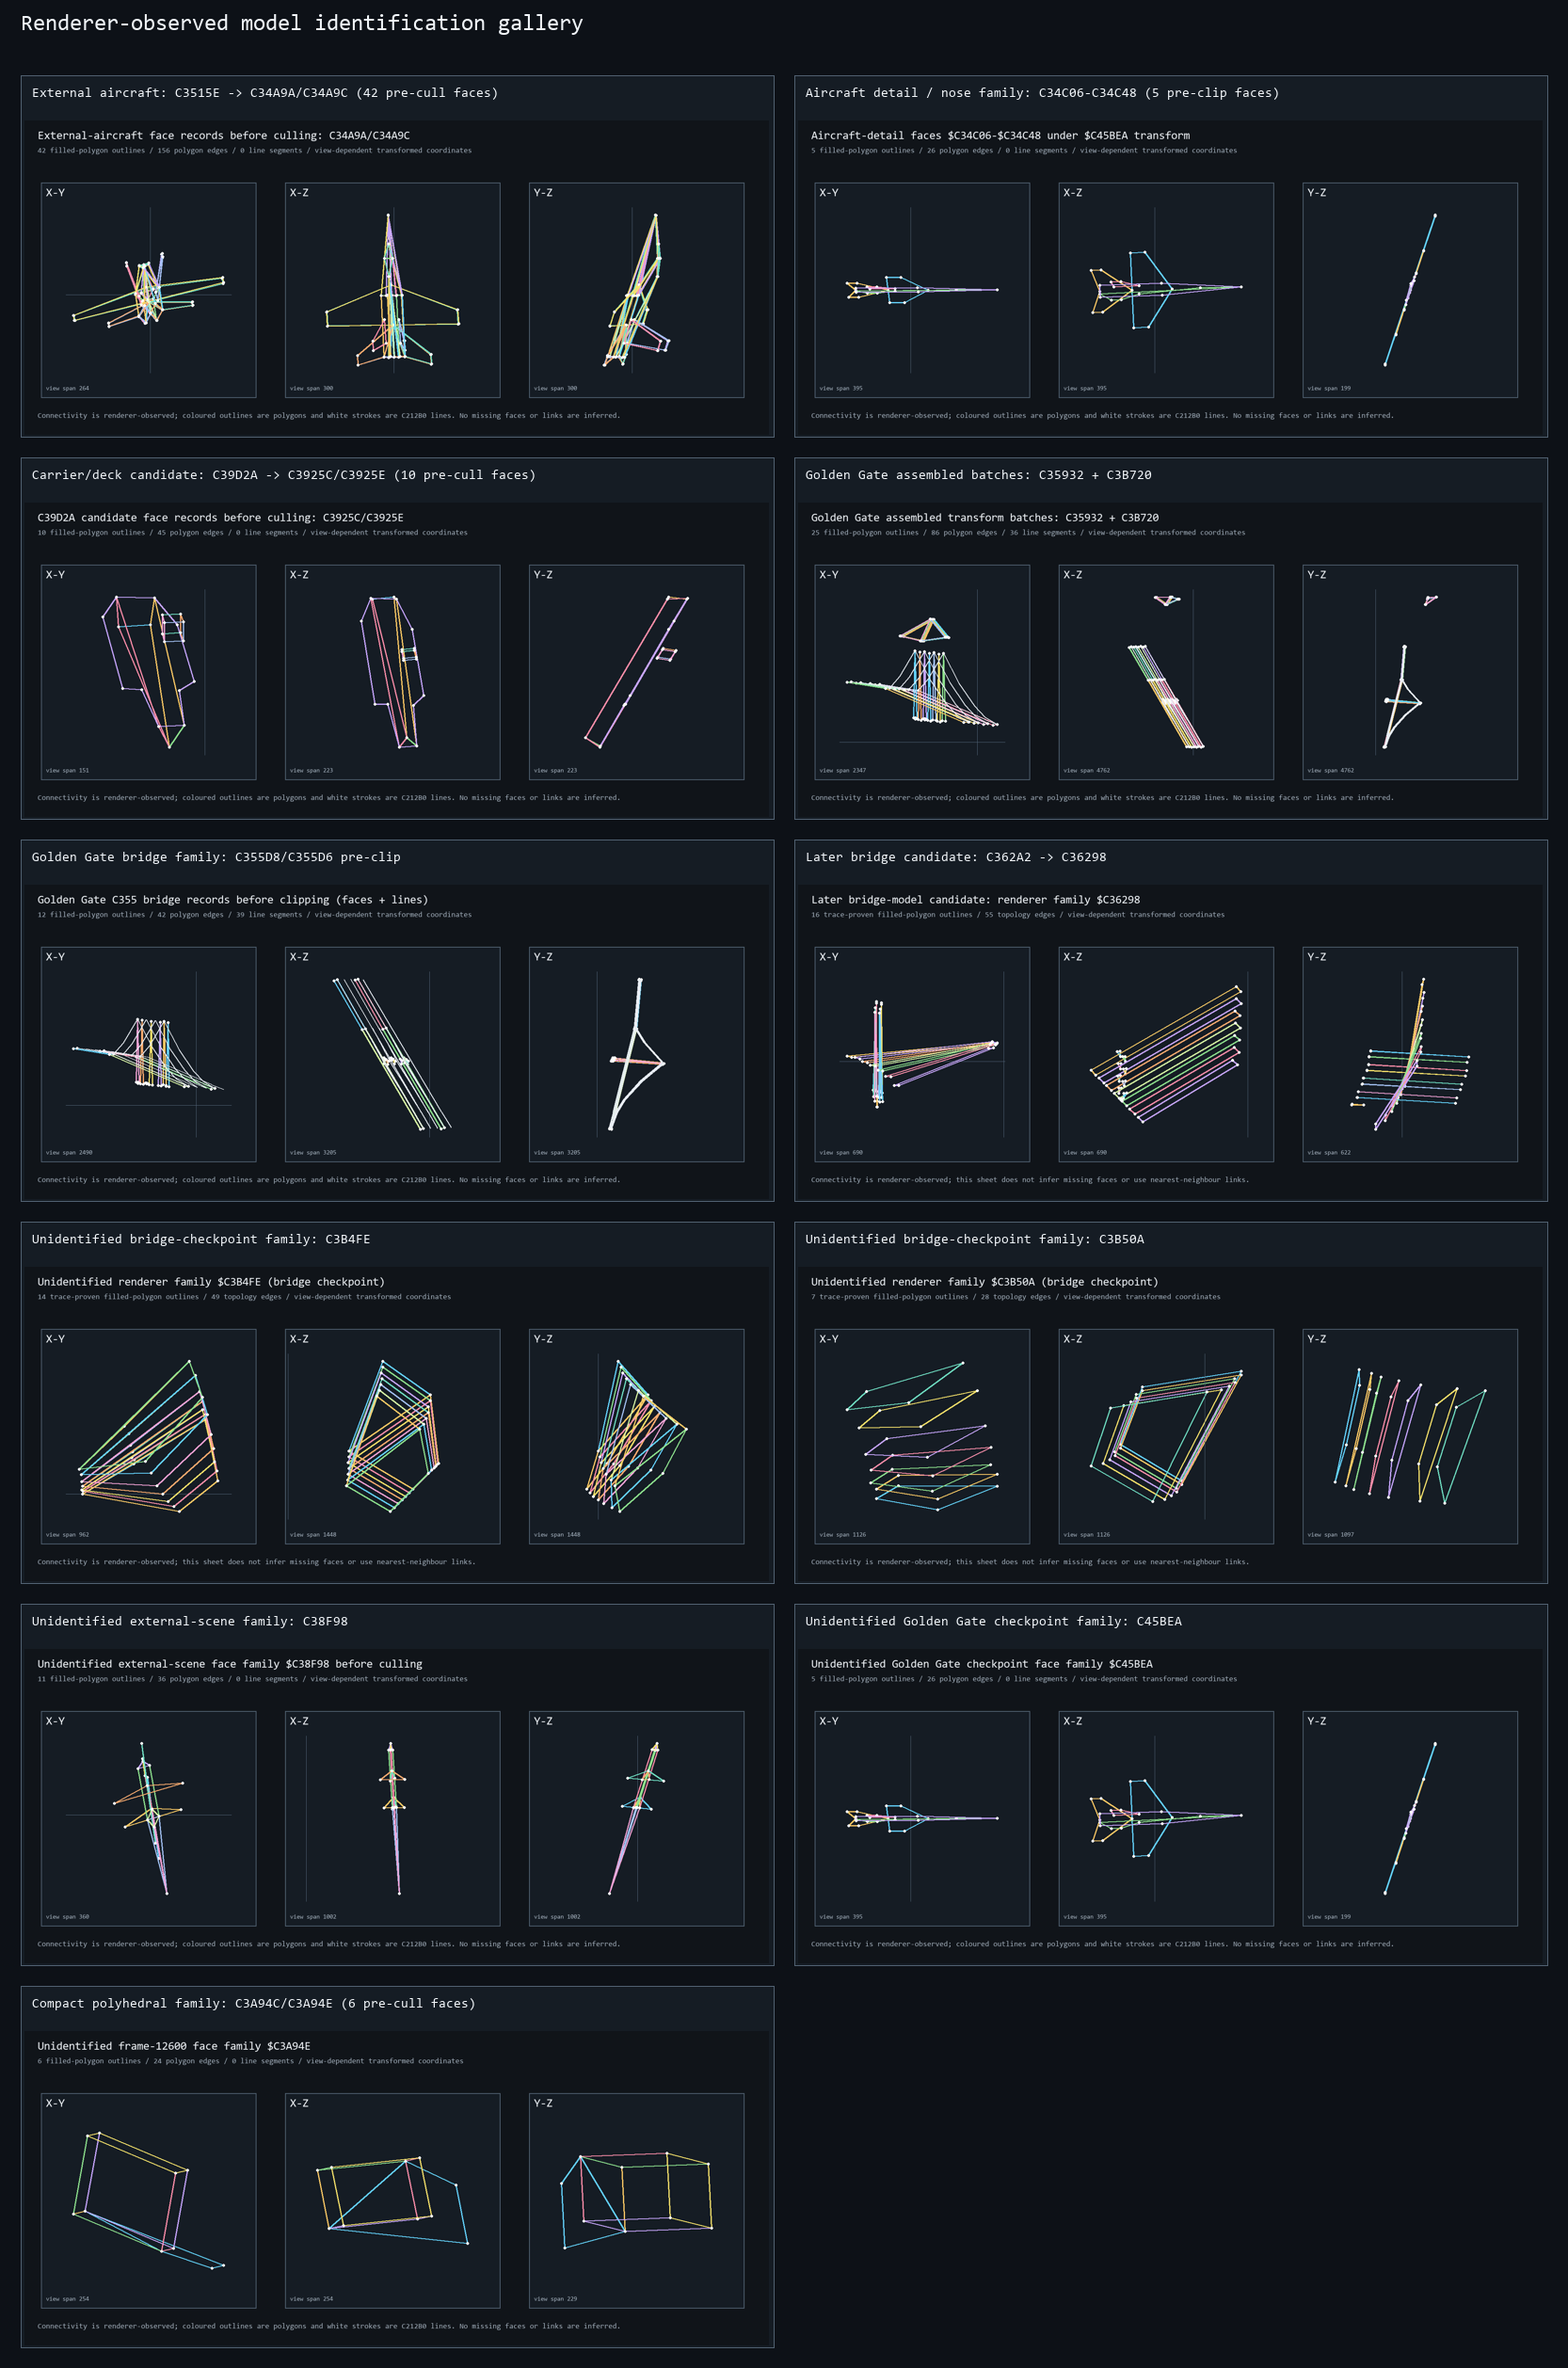
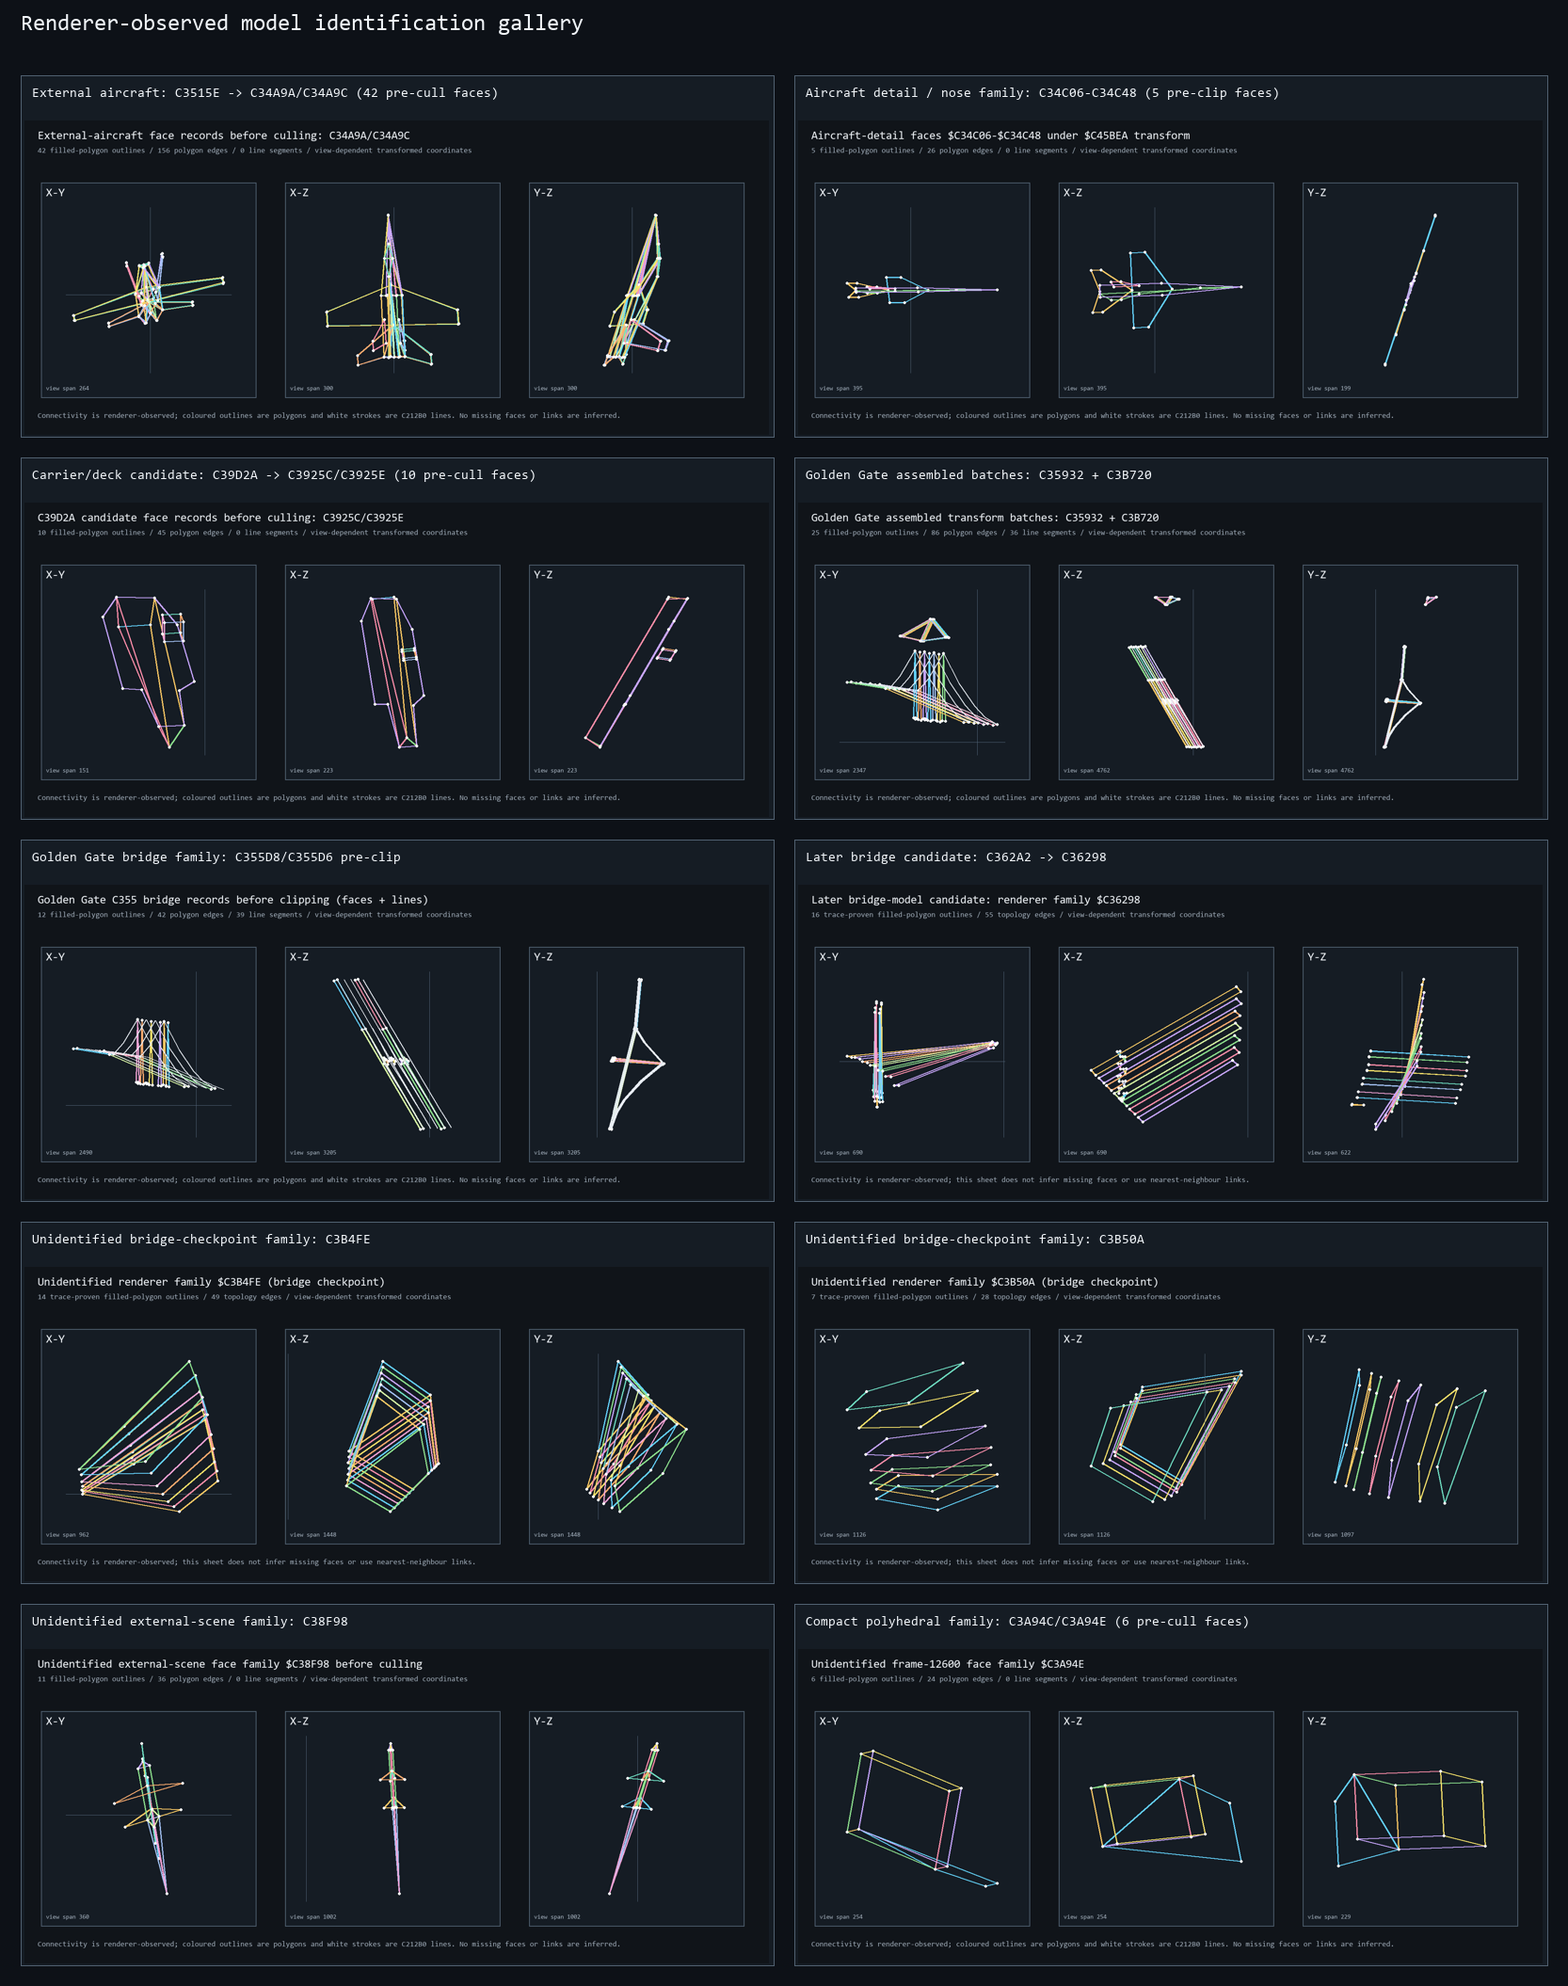
Separate aircraft faces from C45BEA transform state

diff --git a/scripts/render_model_identification_gallery.py b/scripts/render_model_identification_gallery.py
@@ -23,7 +23,6 @@ ITEMS = (
     ("Unidentified bridge-checkpoint family: C3B4FE", "bridge_checkpoint_c3b4fe_model_sheet.png"),
     ("Unidentified bridge-checkpoint family: C3B50A", "bridge_checkpoint_c3b50a_model_sheet.png"),
     ("Unidentified external-scene family: C38F98", "external_scene_c38f98_preclip_face_sheet.png"),
-    ("Unidentified Golden Gate checkpoint family: C45BEA", "golden_gate_c45bea_preclip_face_sheet.png"),
     ("Compact polyhedral family: C3A94C/C3A94E (6 pre-cull faces)",
      "frame12600_c3a94e_preclip_face_sheet.png"),
 )

diff --git a/analysis/data/model_identification_catalog.md b/analysis/data/model_identification_catalog.md
@@ -17,9 +17,9 @@ Each sheet is a tight-fit orthographic X-Y / X-Z / Y-Z plot. A coloured closed o
 | `$C3B4FE` | 14 polygons, 49 edges at the later bridge checkpoint | renderer family; source/model boundary not yet tied | [sheet](../plots/bridge_checkpoint_c3b4fe_model_sheet.png) |
 | `$C3B50A` | 7 polygons, 28 edges at the later bridge checkpoint | renderer family; source/model boundary not yet tied | [sheet](../plots/bridge_checkpoint_c3b50a_model_sheet.png) |
 | `$C38F98` | 11 unique pre-cull faces, 36 polygon edges at the external checkpoint | unidentified tall/thin external-scene face family | [pre-cull sheet](../plots/external_scene_c38f98_preclip_face_sheet.png) |
-| `$C45BEA` | 5 unique pre-cull faces, 26 polygon edges at the Golden Gate checkpoint; alternate display-record base, with sampled words differing across checkpoints | plane-/missile-like silhouette, but **runtime-generated display record rather than a static model source** | [evidence](c45bea_runtime_display_record.md) Â· [pre-cull sheet](../plots/golden_gate_c45bea_preclip_face_sheet.png) |
+| `$C45BEA` | sampled mutable transform/display context used while `$C34C06-$C34C48` reaches `$C2469E` | **not a polygon source**; changes the pose/display of the linked aircraft-detail faces | [evidence](c45bea_runtime_display_record.md) |
 | `$C3A94C/$C3A94E` | 6 unique pre-cull quad faces / 24 polygon edges; distinct live control stream and face-record family | unnamed compact polyhedral component; upstream immutable vertices untraced | [evidence](c3a94c_compact_polyhedron_candidate.md) Â· [pre-cull sheet](../plots/frame12600_c3a94e_preclip_face_sheet.png) |
 
-The catalogue deliberately keeps the last entries separate from the static-model candidates. `$C45BEA` is especially important: `$C0D74A` selects it as an alternate display-record base and the matrix-update route writes that cache, so its aircraft-like silhouette is useful for recognising what is on screen but cannot be exported as immutable model data. `$C38F98` and `$C3A94E` remain drawable renderer families whose upstream static source/ownership is not yet established.
+The catalogue deliberately keeps the last entries separate from the static-model candidates. `$C45BEA` is especially important: `$C0D74A` selects it as an alternate display-record base and the matrix-update route writes that cache. The aircraft-like plot previously associated with it is actually the linked `$C34C` face family. `$C38F98` and `$C3A94E` remain drawable renderer families whose upstream static source/ownership is not yet established.
 
 Pre-cull-sheet qualification: `$C2005C` supplies selected faces before their orientation and clipping gates. The sheets retain one observed transformed sample for each distinct static face-record address, which recovers faces absent from `$C2FF48` without inventing topology. `$C212B0` line sheets remain supplementary because their endpoint lists may describe scene detail as well as model outlines.

diff --git a/analysis/data/c34c_aircraft_detail_face_family.md b/analysis/data/c34c_aircraft_detail_face_family.md
@@ -15,6 +15,12 @@ transformed display. The coordinates captured at `$C2469E` are likewise
 transformed workspace coordinates, so this establishes renderer topology and
 component ownership—not immutable vertex coordinates.
 
+The face records reside in the byte-stable `$C34A50-$C3555F` Hunk-41 payload,
+the same loaded data region that contains the `$C3515E` static aircraft-vertex
+candidate. This establishes a shared immutable *resource region*, although a
+direct transform trace from `$C3515E` to these five records has not yet been
+captured.
+
 This family is therefore kept as a linked aircraft component, separate from
 the `$C3515E -> $C34A9A/$C34A9C` static-vertex candidate until their shared
 upstream source is directly traced.
